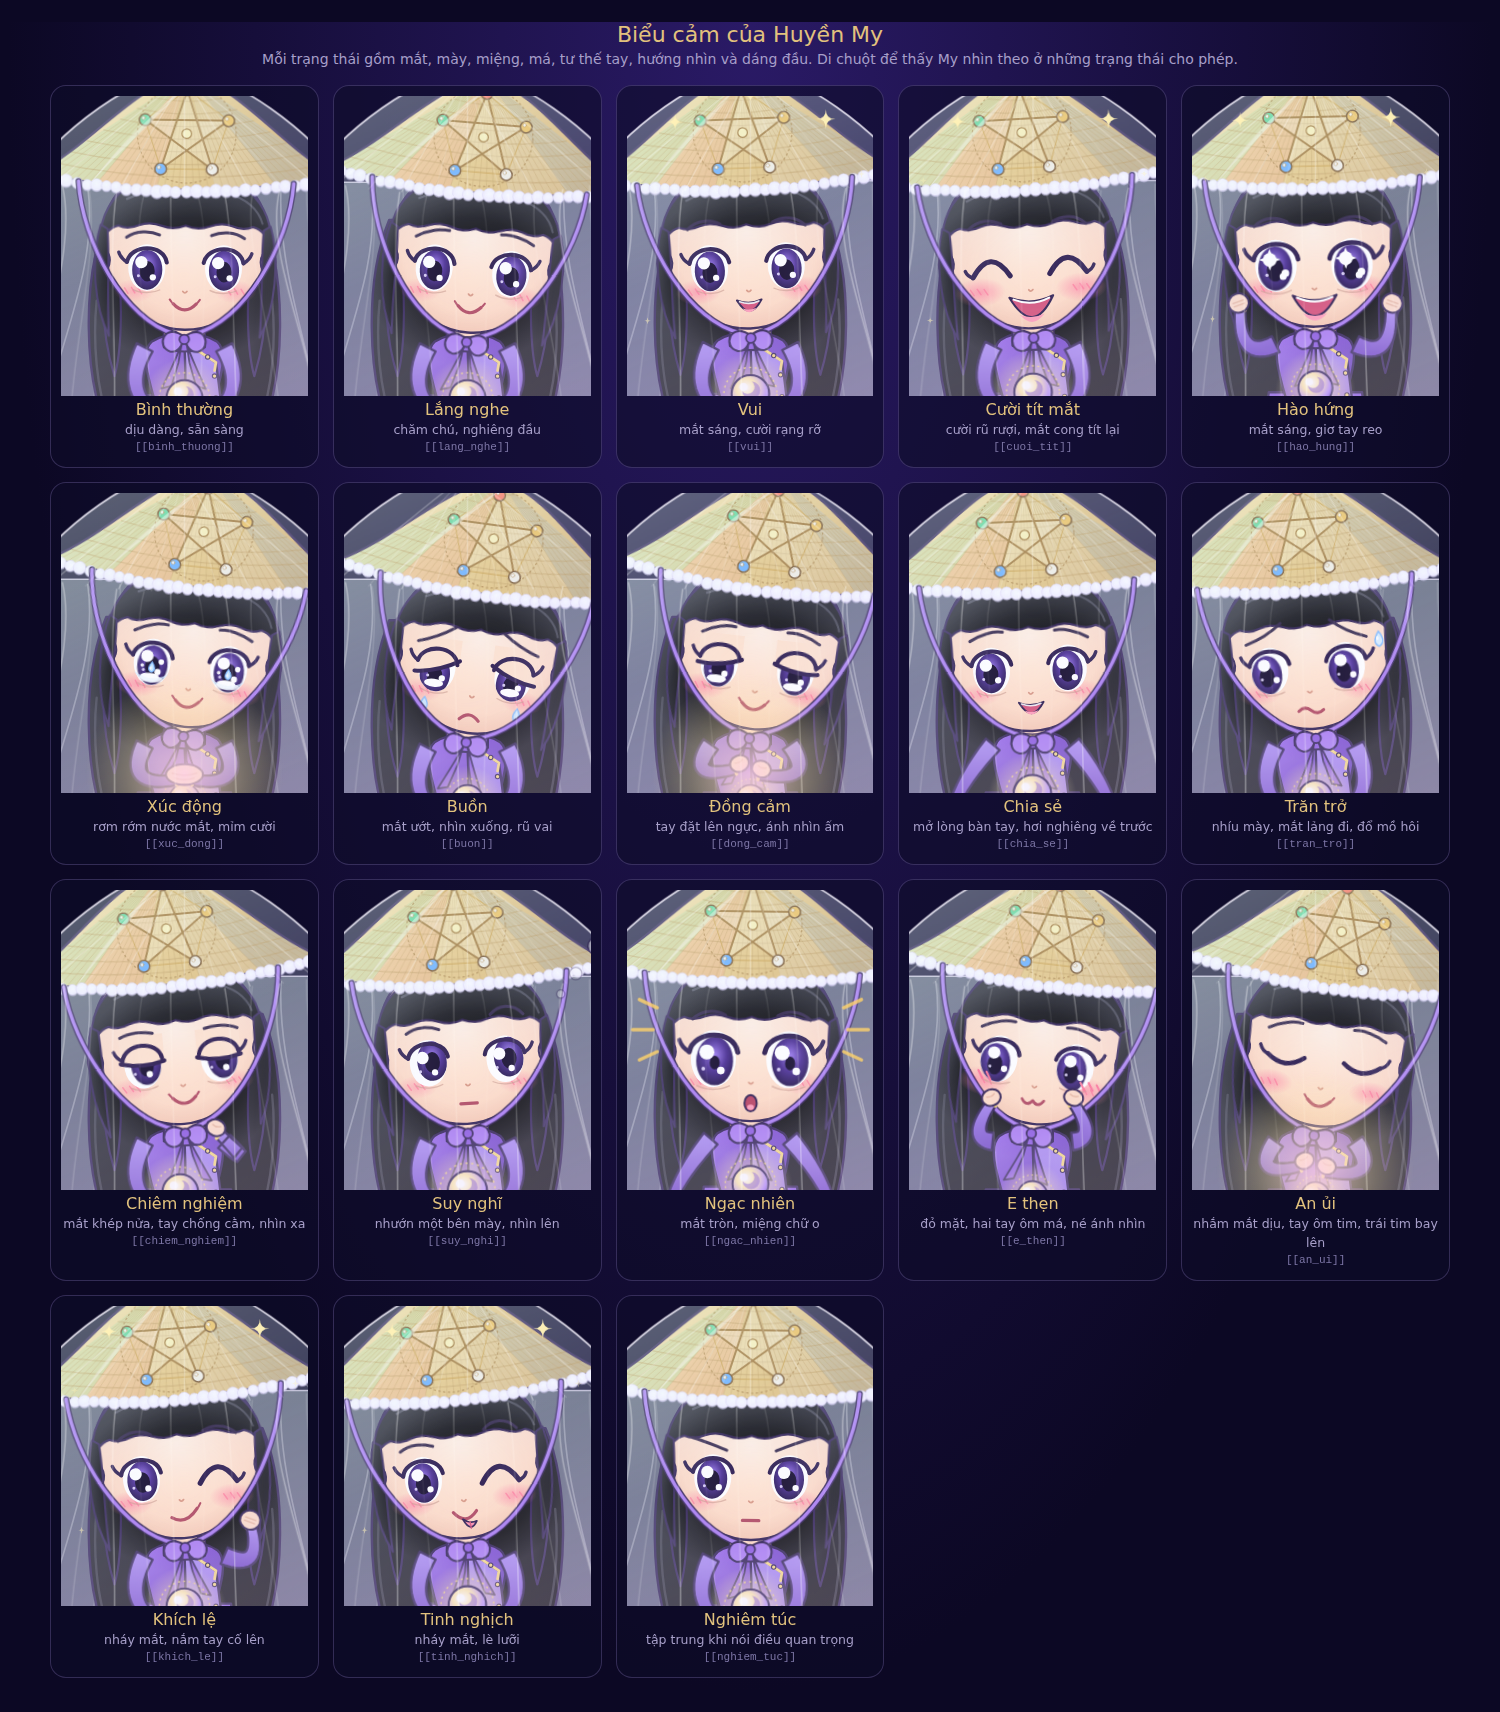
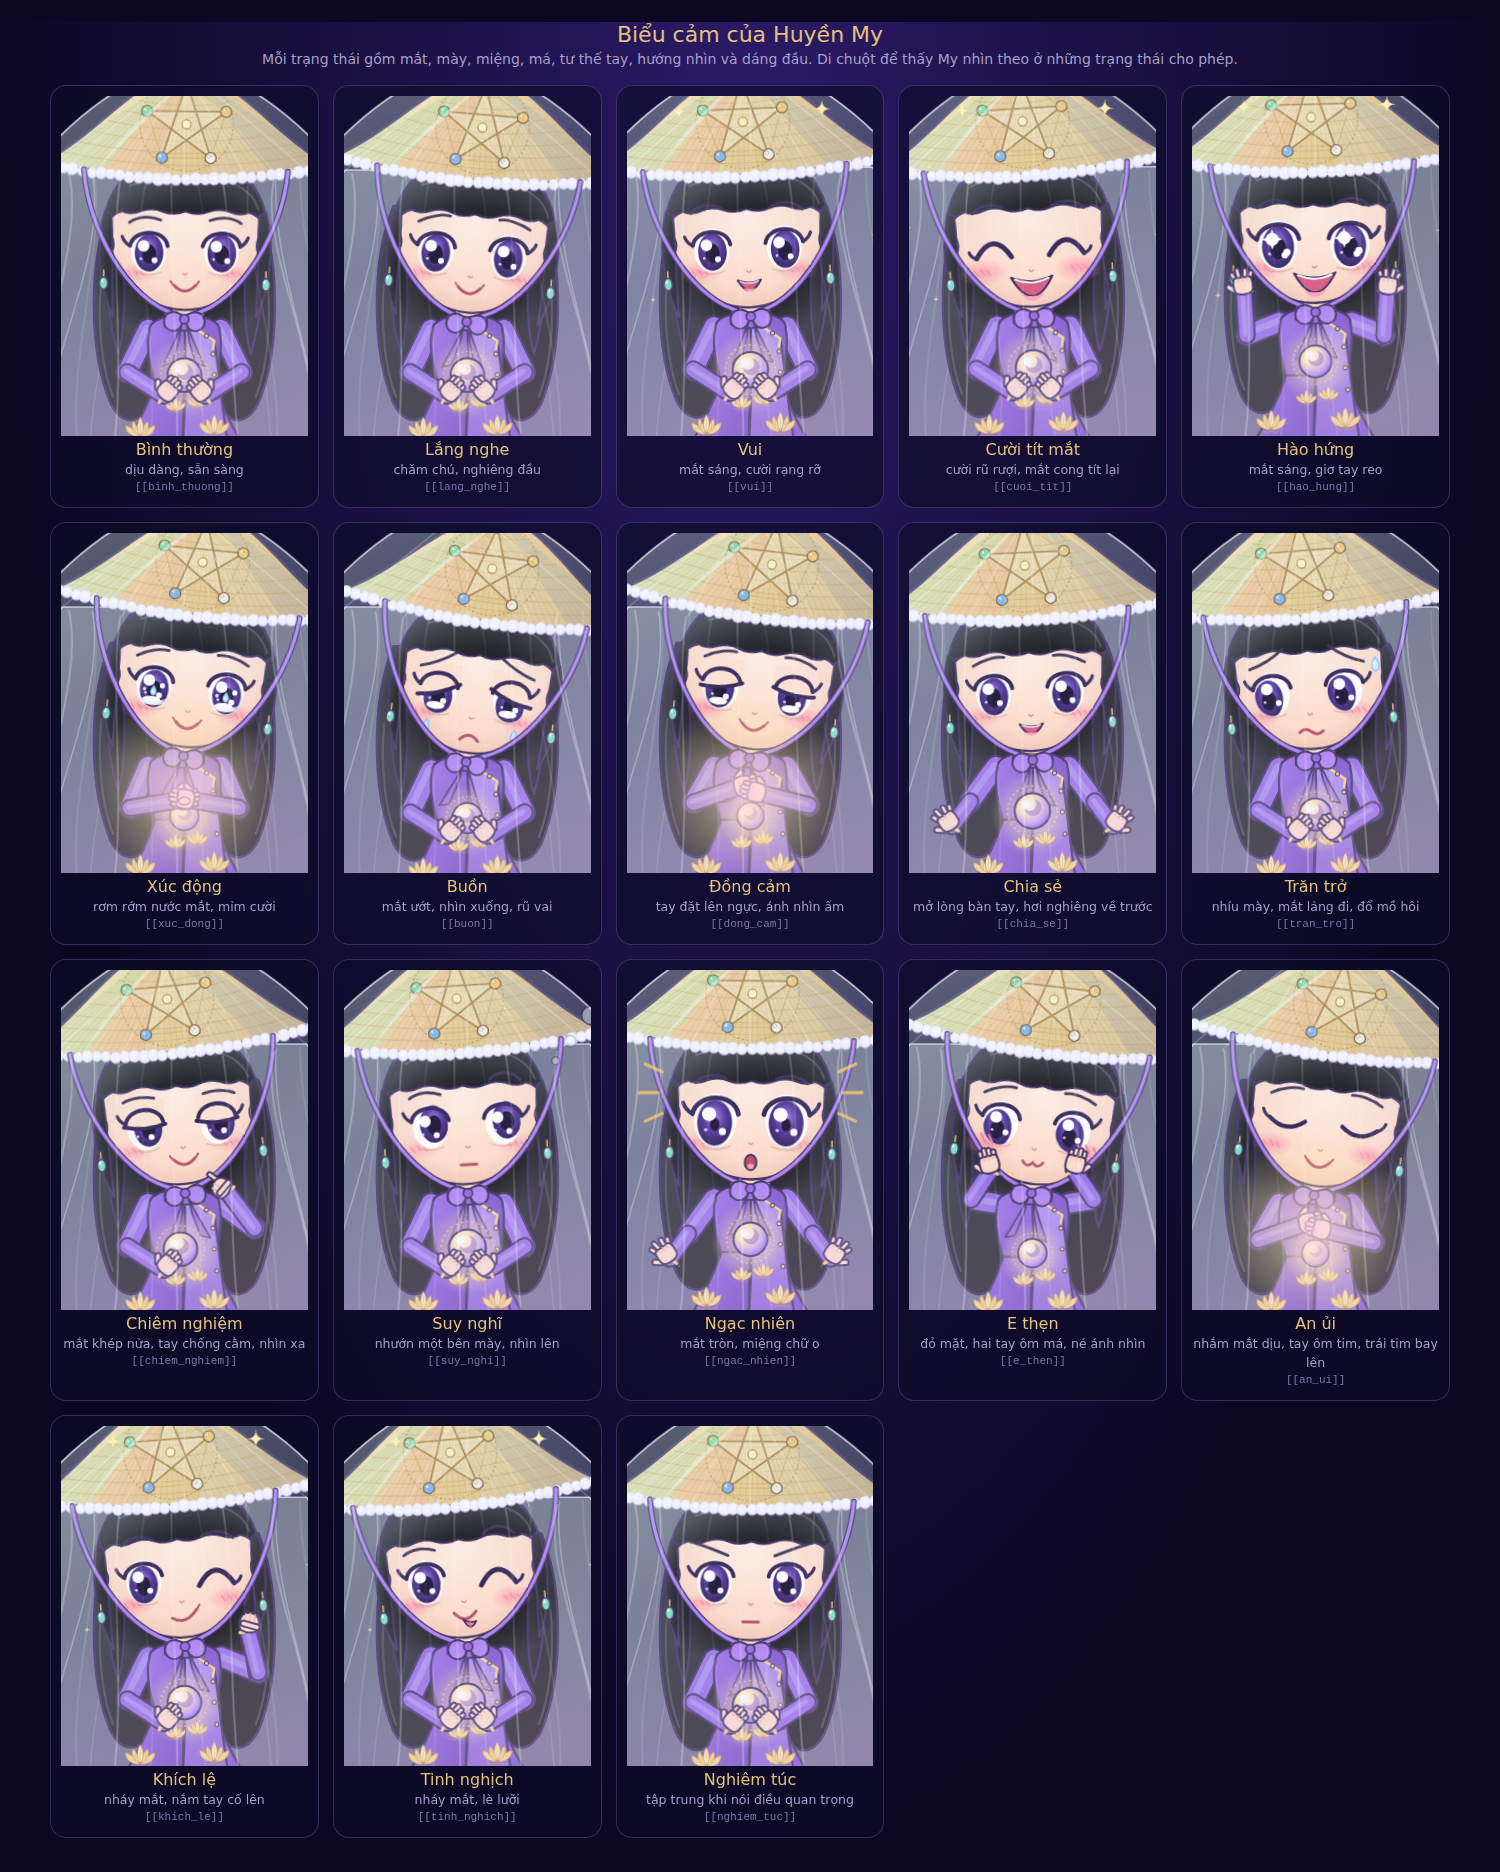
Sửa nhân vật: bàn tay có ngón, tay gắn vai và khuỷu liền mạch, thân áo liền khối, hiện bông tai ngọc
- Tay vẽ bằng nét viền liền (vai, khuỷu bo tròn); cánh tay trên nằm sau thân áo để mọc ra từ vai
- Bàn tay 4 kiểu có ngón: phẳng, xòe, nắm, chỉ; ngón cái theo từng tay
- Thân áo và tà không còn góc vuông ở hông
- Bông tai ngọc hiện ra trước tóc
- Cập nhật bảng cảm xúc và ảnh kiểm tra tay

Claude-Session: https://claude.ai/code/session_01AxiVpuxpGkTqByN3TdYc71

diff --git a/emotions.html b/emotions.html
@@ -10,7 +10,7 @@
     p.sub { text-align: center; color: #a79fc9; margin: 0 12px 18px; font-size: 14px; }
     .grid { display: grid; grid-template-columns: repeat(auto-fill, minmax(230px, 1fr)); gap: 14px; padding: 0 14px 30px; max-width: 1400px; margin: 0 auto; }
     .card { border: 1px solid rgba(190, 170, 255, .22); border-radius: 16px; background: rgba(14, 12, 40, .6); padding: 10px 10px 14px; text-align: center; }
-    .card .host { height: 300px; display: flex; justify-content: center; } .card svg { height: 100%; width: auto; }
+    .card .host { height: 340px; display: flex; justify-content: center; } .card svg { height: 100%; width: auto; }
     .card b { display: block; font-size: 16px; color: #e2c27d; font-weight: 500; margin-top: 4px; } .card span { font-size: 12.5px; color: #a79fc9; }
     .card code { display: block; color: #7d76a6; font-size: 11px; margin-top: 3px; }
   </style>

diff --git a/src/character.js b/src/character.js
@@ -39,7 +39,7 @@ addEventListener('pointermove', (e) => { pointer.x = (e.clientX / innerWidth) * 
 export function createCharacter(host, { follow = true, crop = false } = {}) {
   host.innerHTML = rigSvg;
   const svg = host.querySelector('svg.hm');
-  if (crop) svg.setAttribute('viewBox', '120 130 360 400');
+  if (crop) svg.setAttribute('viewBox', '110 150 380 470');
   const $ = (id) => svg.querySelector('#' + id);
   const all = $('all'), body = $('body'), head = $('head'), features = $('features'), brows = $('brows'), hairFront = $('hair-front'), arms = $('arms'), orb = $('orb'), shadow = $('shadow');
   let emo = 'binh_thuong', cfg = EMOTIONS[emo], speaking = false, castUntil = 0, tint = null;

diff --git a/tools/rig.py b/tools/rig.py
@@ -62,53 +62,73 @@ def css():
     r.append('@media (prefers-reduced-motion:reduce){.hm *{animation:none!important}}')
     return '\n'.join(r)
 
-# ---------- cánh tay: đa giác thon dần theo đường cong vai - khuỷu - cổ tay ----------
-def arm(S, E, W, w0=26, w1=15, n=16):
-    left, right = [], []
-    for i in range(n + 1):
-        t = i / n
-        p = bez(S, E, W, t)
-        dx = 2 * (1 - t) * (E[0] - S[0]) + 2 * t * (W[0] - E[0]); dy = 2 * (1 - t) * (E[1] - S[1]) + 2 * t * (W[1] - E[1])
-        ln = math.hypot(dx, dy) or 1; nx, ny = -dy / ln, dx / ln; w = (w0 + (w1 - w0) * t) / 2
-        left.append((p[0] + nx * w, p[1] + ny * w)); right.append((p[0] - nx * w, p[1] - ny * w))
-    pts = left + right[::-1]
-    d = 'M ' + ' L '.join(f'{x:.1f} {y:.1f}' for x, y in pts) + ' Z'
-    cuff = f'M {left[-1][0]:.1f} {left[-1][1]:.1f} L {right[-1][0]:.1f} {right[-1][1]:.1f}'
-    return (f'<path d="{d}" fill="url(#adg2)" stroke="{OUT}" stroke-width="3.4" stroke-linejoin="round"/>'
-            f'<path d="{cuff}" stroke="#f6d77a" stroke-width="5" stroke-linecap="round"/>')
-def hand(x, y, rx=13, ry=12, rot=0, fist=False):
-    s = f'<g transform="translate({x} {y}) rotate({rot})"><ellipse rx="{rx}" ry="{ry}" fill="#ffdcc6" stroke="{OUT}" stroke-width="3"/>'
-    s += '<path d="M -6 -3 q 6 3 12 -1" stroke="#e8b59c" stroke-width="2" fill="none" stroke-linecap="round"/>' if not fist else '<path d="M -8 -2 h16 M -8 3 h16" stroke="#e8b59c" stroke-width="2" stroke-linecap="round"/>'
-    return s + '</g>'
+# ---------- tay: nét viền liền mạch (vai, khuỷu bo tròn), bàn tay có ngón ----------
+SK = '#ffdcc6'; SLEEVE = '#8b5fe0'; SHADE = '#e8b59c'
+def seg(P, Q, w):
+    """Một đoạn tay: nét viền tím đậm bên dưới, thân áo tím bên trên, đầu bo tròn nên nối khớp liền mạch."""
+    d = f'M {P[0]} {P[1]} L {Q[0]} {Q[1]}'
+    return d, (f'<path d="{d}" stroke="{OUT}" stroke-width="{w + 6.6}" stroke-linecap="round" stroke-linejoin="round" fill="none"/>',
+               f'<path d="{d}" stroke="{SLEEVE}" stroke-width="{w}" stroke-linecap="round" stroke-linejoin="round" fill="none"/>'
+               f'<path d="{d}" stroke="#b49cf3" stroke-width="{w * 0.34:.1f}" stroke-linecap="round" fill="none" opacity=".55" transform="translate(-2.2 -1.6)"/>')
+def cuff(E, W, w):
+    dx, dy = W[0] - E[0], W[1] - E[1]; ln = math.hypot(dx, dy) or 1; nx, ny = -dy / ln, dx / ln; r = w / 2 + 1.5
+    return f'<path d="M {W[0] + nx * r:.1f} {W[1] + ny * r:.1f} L {W[0] - nx * r:.1f} {W[1] - ny * r:.1f}" stroke="#f6d77a" stroke-width="5" stroke-linecap="round"/>'
 
-HOLD_L = ((242, 478), (206, 548), (268, 578), (274, 574))
-HOLD_R = ((358, 478), (394, 548), (332, 578), (326, 574))
-def mir(a): return tuple((600 - p[0], p[1]) for p in a)
+def _fing(x, y, ang, ln, wd):
+    r = wd / 2
+    return f'<rect x="{-r}" y="{-ln}" width="{wd}" height="{ln + r}" rx="{r}" ry="{r}" transform="translate({x} {y}) rotate({ang})" fill="{SK}" stroke="{OUT}" stroke-width="2.3"/>'
+PALM = f'<path d="M -11 -2 C -12 -11 -10 -15 -9 -16 L 9 -16 C 10 -15 12 -11 11 -2 C 10 6 -10 6 -11 -2 Z" fill="{SK}" stroke="{OUT}" stroke-width="2.4" stroke-linejoin="round"/>'
+KNUCK = f'<path d="M -5 -15 v 3.5 M 0.2 -15.5 v 4 M 5.4 -15 v 3.5" stroke="{SHADE}" stroke-width="1.6" stroke-linecap="round" fill="none"/>'
+def hand(kind, x, y, rot=0, flip=False, sc=1.32):
+    """Bàn tay có ngón. Gốc cổ tay ở (0,0), ngón chỉ lên (-y); flip = tay còn lại."""
+    g = f'<g transform="translate({x} {y}) rotate({rot}) scale({-sc if flip else sc} {sc})">'
+    if kind == 'flat':      # các ngón khép
+        g += ''.join(_fing(fx, -12, 0, fl, 5.3) for fx, fl in [(-7.6, 12), (-2.6, 14.5), (2.7, 13.5), (7.8, 10.5)])
+        g += _fing(-11, -2, -40, 10.5, 6.4) + PALM + KNUCK
+    elif kind == 'spread':  # xòe năm ngón (reo, mở lòng bàn tay)
+        g += ''.join(_fing(fx, -13, an, fl, 5.3) for fx, an, fl in [(-8, -24, 11), (-3, -9, 14.5), (3, 7, 13.5), (8, 22, 10.5)])
+        g += _fing(-11, -2, -52, 10.5, 6.4) + PALM + KNUCK
+    elif kind == 'fist':    # nắm tay: bốn ngón cuộn, ngón cái vắt ngang
+        g += (f'<path d="M -11 -4 C -13 -14 -9 -21 0 -21 C 9 -21 13 -14 11 -4 C 10 4 -10 4 -11 -4 Z" fill="{SK}" stroke="{OUT}" stroke-width="2.4" stroke-linejoin="round"/>'
+              f'<path d="M -5.6 -19.5 v 10 M 0 -20.5 v 11 M 5.6 -19.5 v 10" stroke="{SHADE}" stroke-width="1.9" stroke-linecap="round" fill="none"/>'
+              f'<rect x="-12" y="-10" width="23" height="6.6" rx="3.3" transform="rotate(-8)" fill="{SK}" stroke="{OUT}" stroke-width="2.2"/>')
+    elif kind == 'point':   # chống cằm: ngón trỏ duỗi, ba ngón còn lại cuộn
+        g += _fing(-5.4, -17, -4, 14, 5.4) + (f'<path d="M -11 -4 C -13 -13 -9 -19 -2 -19 C 7 -19 13 -14 11 -4 C 10 4 -10 4 -11 -4 Z" fill="{SK}" stroke="{OUT}" stroke-width="2.4" stroke-linejoin="round"/>'
+              f'<path d="M 0 -18 v 9 M 5.8 -17 v 8" stroke="{SHADE}" stroke-width="1.8" stroke-linecap="round" fill="none"/>'
+              f'<rect x="-12" y="-9" width="22" height="6.4" rx="3.2" transform="rotate(-8)" fill="{SK}" stroke="{OUT}" stroke-width="2.2"/>')
+    return g + '</g>'
+
+def mir(P): return (600 - P[0], P[1])
+SH_L, SH_R = (244, 482), (356, 482)
+# mỗi tay: (khuỷu, cổ tay, kiểu bàn tay, góc xoay, lật?)
+def L_(E, W, kind, rot, flip=False): return (SH_L, E, W, kind, rot, flip)
+def R_(E, W, kind, rot, flip=True): return (SH_R, E, W, kind, rot, flip)
+HOLD_L = L_((212, 548), (268, 584), 'flat', 42, False)
+HOLD_R = R_((388, 548), (332, 584), 'flat', -42, True)
 POSE_SPECS = {
     'hold':   (HOLD_L, HOLD_R),
-    'heart':  (((242, 478), (204, 532), (278, 514), (284, 506)), ((358, 478), (398, 536), (312, 522), (316, 514))),
-    'clasp':  (((242, 478), (210, 542), (288, 530), (292, 524)), ((358, 478), (390, 542), (312, 530), (308, 524))),
-    'open':   (((242, 478), (200, 528), (186, 566), (182, 570)), ((358, 478), (400, 528), (414, 566), (418, 570))),
-    'chin':   (HOLD_L, ((358, 478), (406, 522), (352, 468), (346, 458))),
-    'cheer':  (((242, 478), (188, 504), (190, 428), (188, 418)), ((358, 478), (412, 504), (410, 428), (412, 418))),
-    'fist':   (HOLD_L, ((358, 478), (414, 502), (398, 436), (396, 426))),
-    'cheeks': (((242, 478), (204, 474), (240, 422), (240, 414)), ((358, 478), (396, 474), (360, 422), (360, 414))),
+    'heart':  (L_((212, 538), (280, 514), 'flat', 76, False), R_((390, 542), (318, 524), 'flat', -76, True)),
+    'clasp':  (L_((216, 546), (290, 534), 'flat', 80, False), R_((384, 546), (310, 534), 'flat', -80, True)),
+    'open':   (L_((204, 536), (176, 574), 'spread', -36, False), R_((396, 536), (424, 574), 'spread', 36, True)),
+    'chin':   (HOLD_L, R_((408, 520), (366, 464), 'point', -58, True)),
+    'cheer':  (L_((194, 502), (190, 434), 'spread', -8, False), R_((406, 502), (410, 434), 'spread', 8, True)),
+    'fist':   (HOLD_L, R_((414, 506), (398, 442), 'fist', 8, True)),
+    'cheeks': (L_((206, 476), (236, 430), 'flat', -14, False), R_((394, 476), (364, 430), 'flat', 14, True)),
 }
 def poses():
-    out = []
+    """Trả về (nhóm tay phía sau thân: vai + cánh tay trên, nhóm tay phía trước: cẳng tay + bàn tay)."""
+    back, front = [], []
     for name in POSES:
-        l, r = POSE_SPECS[name]
-        fist = name in ('fist', 'cheer')
-        g = f'<g class="pose pose-{name}">'
-        for a in (l, r):
-            S, E, W, H = a
-            g += arm(S, E, W)
-        if name == 'clasp': g += '<ellipse cx="300" cy="522" rx="27" ry="15" fill="#ffdcc6" stroke="#2a1a4d" stroke-width="3"/><path d="M 282 520 q 18 6 36 0 M 286 527 q 14 5 28 0" stroke="#e8b59c" stroke-width="2" fill="none" stroke-linecap="round"/>'
-        else:
-            for a, rot in ((l, -20), (r, 20)):
-                g += hand(a[3][0], a[3][1], 14 if not fist else 15, 12 if not fist else 14, rot, fist and name in ('fist', 'cheer'))
-        out.append(g + '</g>')
-    return '\n'.join(out)
+        gb, gf = f'<g class="pose pose-{name}">', f'<g class="pose pose-{name}">'
+        for (S, E, W, kind, rot, flip) in POSE_SPECS[name]:
+            _, (o1, f1) = seg(S, E, 29); gb += o1 + f1
+            _, (o2, f2) = seg(E, W, 22); gf += o2 + f2 + cuff(E, W, 22)
+        for (S, E, W, kind, rot, flip) in POSE_SPECS[name]:
+            gf += hand(kind, W[0], W[1], rot, flip)
+        if name == 'clasp':   # hai bàn tay đan vào nhau
+            gf += f'<ellipse cx="300" cy="535" rx="9" ry="6" fill="{SK}" stroke="{OUT}" stroke-width="2.2"/>'
+        back.append(gb + '</g>'); front.append(gf + '</g>')
+    return '\n'.join(back), '\n'.join(front)
 
 # ---------- mắt ----------
 def eye(sgn):
@@ -185,6 +205,7 @@ def world_fx():
     s.append('<g class="fx fx-shock" stroke="#ffd36b" stroke-width="5" stroke-linecap="round" fill="none"><path d="M 436 286 l 26 -12 M 442 318 l 30 0 M 436 350 l 26 12"/><path d="M 164 286 l -26 -12 M 158 318 l -30 0 M 164 350 l -26 12"/></g>')
     return '\n'.join(s)
 
+POSES_BACK, POSES_FRONT = poses()
 def build():
     S = []
     S.append(f'<svg xmlns="http://www.w3.org/2000/svg" class="hm" viewBox="0 0 600 800" data-eyes="open" data-brows="neutral" data-mouth="smile-closed" data-pose="hold" data-blush="n" data-fx="">')
@@ -207,11 +228,12 @@ def build():
     S.append('<g id="body">')
     S.append(f'<path d="M 186 292 C 150 380 154 520 186 596 C 208 640 244 624 254 580 L 346 580 C 356 624 392 640 414 596 C 446 520 450 380 414 292 Z" fill="url(#hairg)" stroke="{OUT}" stroke-width="3.5" stroke-linejoin="round"/>')
     S.append('<path d="M 172 410 C 166 470 172 540 190 586" fill="none" stroke="#5a5a68" stroke-width="3.5" stroke-linecap="round" opacity=".45"/><path d="M 428 410 C 434 470 428 540 410 586" fill="none" stroke="#5a5a68" stroke-width="3.5" stroke-linecap="round" opacity=".45"/>')
+    S.append(f'<g id="arms-back">{POSES_BACK}</g>')
     S.append(f'<path d="M 246 632 L 296 632 L 292 742 L 226 742 Z" fill="#fff6e6" stroke="{OUT}" stroke-width="3.2" stroke-linejoin="round"/><path d="M 304 632 L 354 632 L 374 742 L 308 742 Z" fill="#fff6e6" stroke="{OUT}" stroke-width="3.2" stroke-linejoin="round"/>')
     for x in (258, 342):
         S.append(f'<path d="M {x-36} 746 C {x-36} 726 {x+30} 726 {x+36} 746 C {x+38} 760 {x-38} 760 {x-36} 746 Z" fill="#a357d9" stroke="{OUT}" stroke-width="3.2" stroke-linejoin="round"/><path d="M {x-24} 742 C {x-10} 734 {x+14} 734 {x+26} 742" fill="none" stroke="#f6d77a" stroke-width="3" stroke-linecap="round"/>')
-    S.append(f'<path d="M 268 548 L 232 548 C 224 610 200 664 180 708 C 220 724 262 728 296 718 L 300 548 Z" fill="url(#adg)" stroke="{OUT}" stroke-width="3.5" stroke-linejoin="round"/><path d="M 332 548 L 368 548 C 376 610 400 664 420 708 C 380 724 338 728 304 718 L 300 548 Z" fill="url(#adg)" stroke="{OUT}" stroke-width="3.5" stroke-linejoin="round"/>')
-    S.append(f'<path d="M 252 470 C 236 484 246 520 258 560 L 342 560 C 354 520 364 484 348 470 C 336 462 320 458 300 458 C 280 458 264 462 252 470 Z" fill="url(#adg)" stroke="{OUT}" stroke-width="3.5" stroke-linejoin="round"/>')
+    S.append(f'<path d="M 300 548 L 258 552 C 246 604 208 664 180 708 C 220 724 262 728 296 718 Z" fill="url(#adg)" stroke="{OUT}" stroke-width="3.5" stroke-linejoin="round"/><path d="M 300 548 L 342 552 C 354 604 392 664 420 708 C 380 724 338 728 304 718 Z" fill="url(#adg)" stroke="{OUT}" stroke-width="3.5" stroke-linejoin="round"/>')
+    S.append(f'<path d="M 246 484 C 244 470 268 460 300 458 C 332 460 356 470 354 484 C 360 514 352 540 346 564 L 254 564 C 248 540 240 514 246 484 Z" fill="url(#adg)" stroke="{OUT}" stroke-width="3.5" stroke-linejoin="round"/>')
     S.append(f'<path d="M 300 470 L 346 500 C 352 540 356 590 366 650 C 372 690 372 712 392 726 C 352 742 318 738 292 724 C 300 650 304 560 300 470 Z" fill="url(#adg2)" stroke="{OUT}" stroke-width="3.5" stroke-linejoin="round"/>')
     S.append('<path d="M 300 470 L 346 500 L 344 512" fill="none" stroke="#f6d77a" stroke-width="4" stroke-linecap="round" stroke-linejoin="round"/>')
     for (x, y) in [(318, 480), (334, 492), (344, 520), (346, 552), (350, 586)]:
@@ -245,6 +267,9 @@ def build():
     for sgn in (-1, 1):
         x = 300 + sgn * 124
         S.append(f'<path d="M {x} 300 C {x+sgn*14} 350 {x+sgn*8} 420 {x-sgn*14} 462 C {x-sgn*10} 410 {x-sgn*14} 350 {x-sgn*10} 306 Z" fill="url(#hairg)" stroke="{OUT}" stroke-width="3" stroke-linejoin="round"/>')
+    for sgn in (-1, 1):
+        x = 300 + sgn * 125
+        S.append(f'<g class="earring"><path d="M {x} 392 L {x} 402" stroke="#d9b36a" stroke-width="2.4" stroke-linecap="round"/><ellipse cx="{x}" cy="412" rx="6.5" ry="9.5" fill="#6ee0b4" stroke="{OUT}" stroke-width="2.4"/><ellipse cx="{x-2}" cy="408" rx="1.8" ry="3" fill="#fff" opacity=".9"/></g>')
     S.append('</g>')
     S.append(f'<g id="brows" opacity=".95">{brows()}</g>')
     S.append('<g transform="translate(0,-30)">' + hat() + '</g>')
@@ -259,7 +284,7 @@ def build():
     S.append('<g id="orb"><circle cx="300" cy="556" r="64" fill="url(#halo)"/><circle cx="300" cy="552" r="27" fill="url(#orbg)" stroke="#2a1a4d" stroke-width="3"/>'
              '<path d="M 288 548 a 13 13 0 1 0 14 -14 a 10 10 0 1 1 -14 14 Z" fill="#7a4fd0" opacity=".55"/><circle cx="290" cy="542" r="6" fill="#fff" opacity=".9"/>'
              '<circle cx="300" cy="552" r="38" fill="none" stroke="#f6d77a" stroke-width="2" stroke-dasharray="3 5" opacity=".9"/></g>')
-    S.append(f'<g id="arms">{poses()}</g>')
+    S.append(f'<g id="arms">{POSES_FRONT}</g>')
     S.append(veil_front(True))
     S.append(world_fx())
     S.append('</g>')  # all
